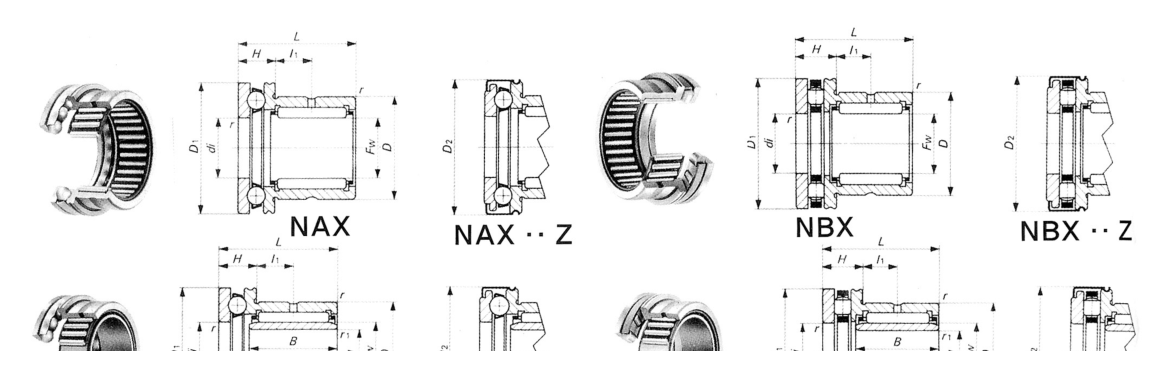
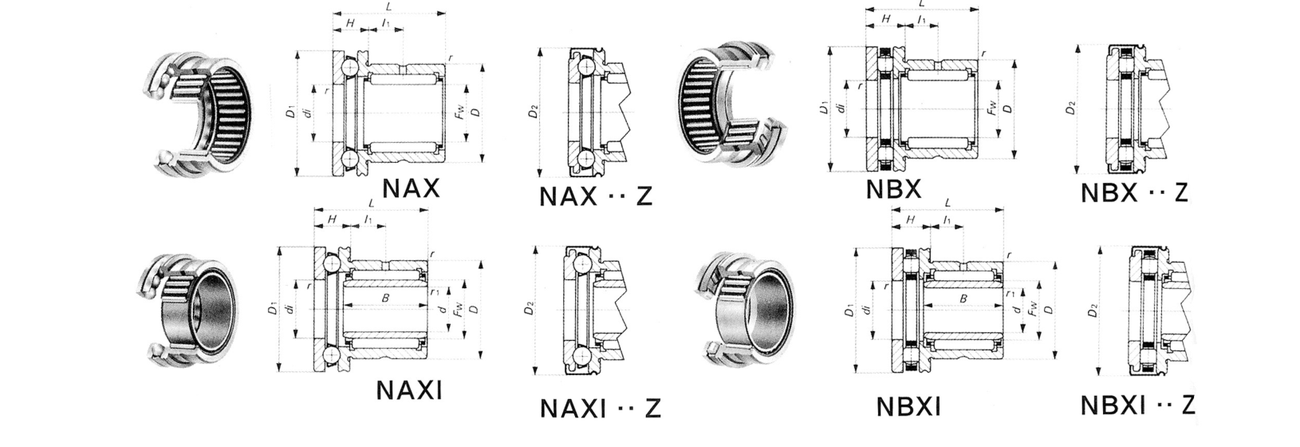
Fix clipped caption/drawing text on yoke_track_roller and thrust_combo_needle diagrams
Both PNGs were cropped too tightly from the SWS catalog source, slicing
off the 복열니들형/케이지형 section captions on yoke_track_roller and the
NAXI/NAXI··Z/NBXI/NBXI··Z inner-ring-variant row on thrust_combo_needle.
Re-cropped from the original PDF pages with full margins.

diff --git a/company-homepage/yoke_track_roller.html b/company-homepage/yoke_track_roller.html
@@ -106,7 +106,7 @@
       </div>
       <div class="diagram-box">
         <p class="diagram-caption">당사 SWS 카탈로그 규격 도면</p>
-        <img src="img/yoke_track_roller.png" alt="구조 단면도" style="display: block; margin: 0 auto; height: 240px; width: auto; max-width: 100%; object-fit: contain; image-rendering: -webkit-optimize-contrast;" loading="lazy">
+        <img src="img/yoke_track_roller.png" alt="구조 단면도" style="display: block; margin: 0 auto; height: 185px; width: auto; max-width: 100%; object-fit: contain; image-rendering: -webkit-optimize-contrast;" loading="lazy">
         <p class="diagram-legend">d(내경) · D(외경) · 공차(d/D) · B(폭)</p>
       </div>
 
